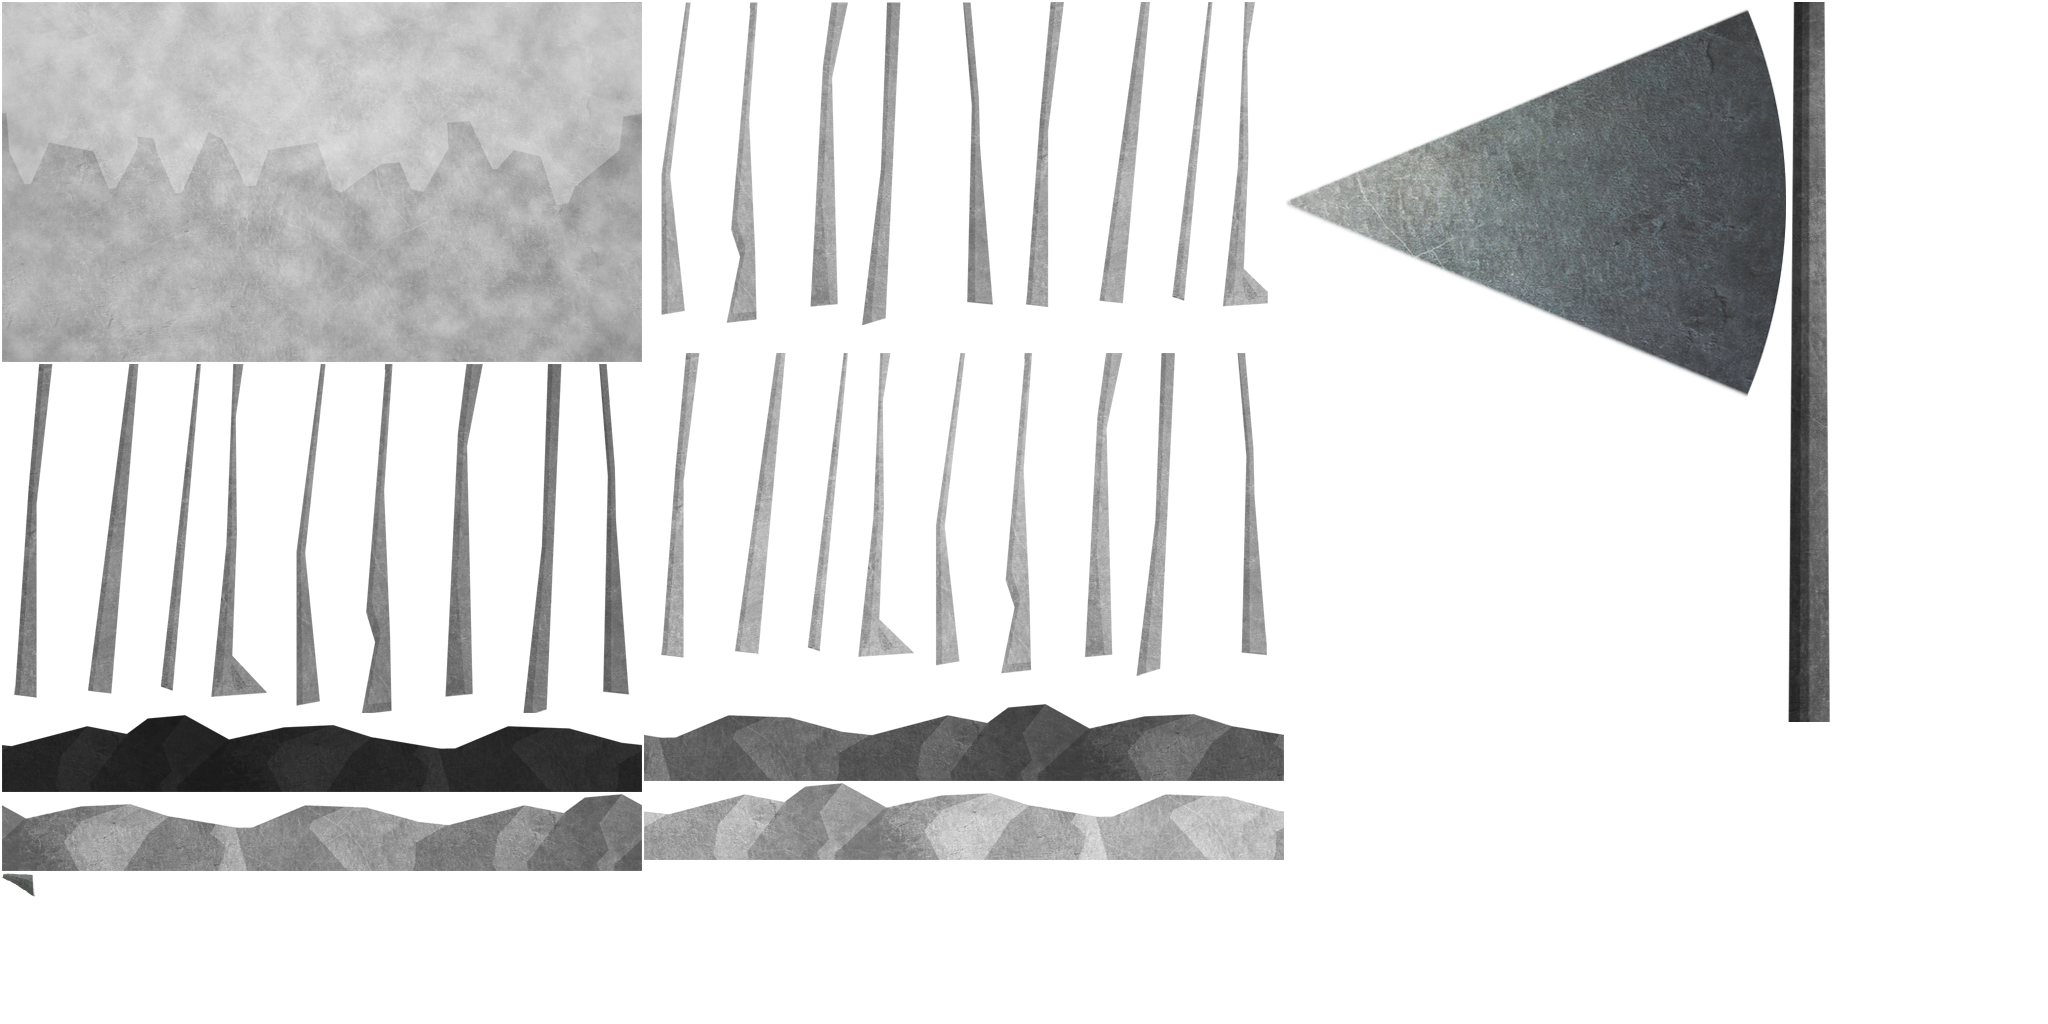
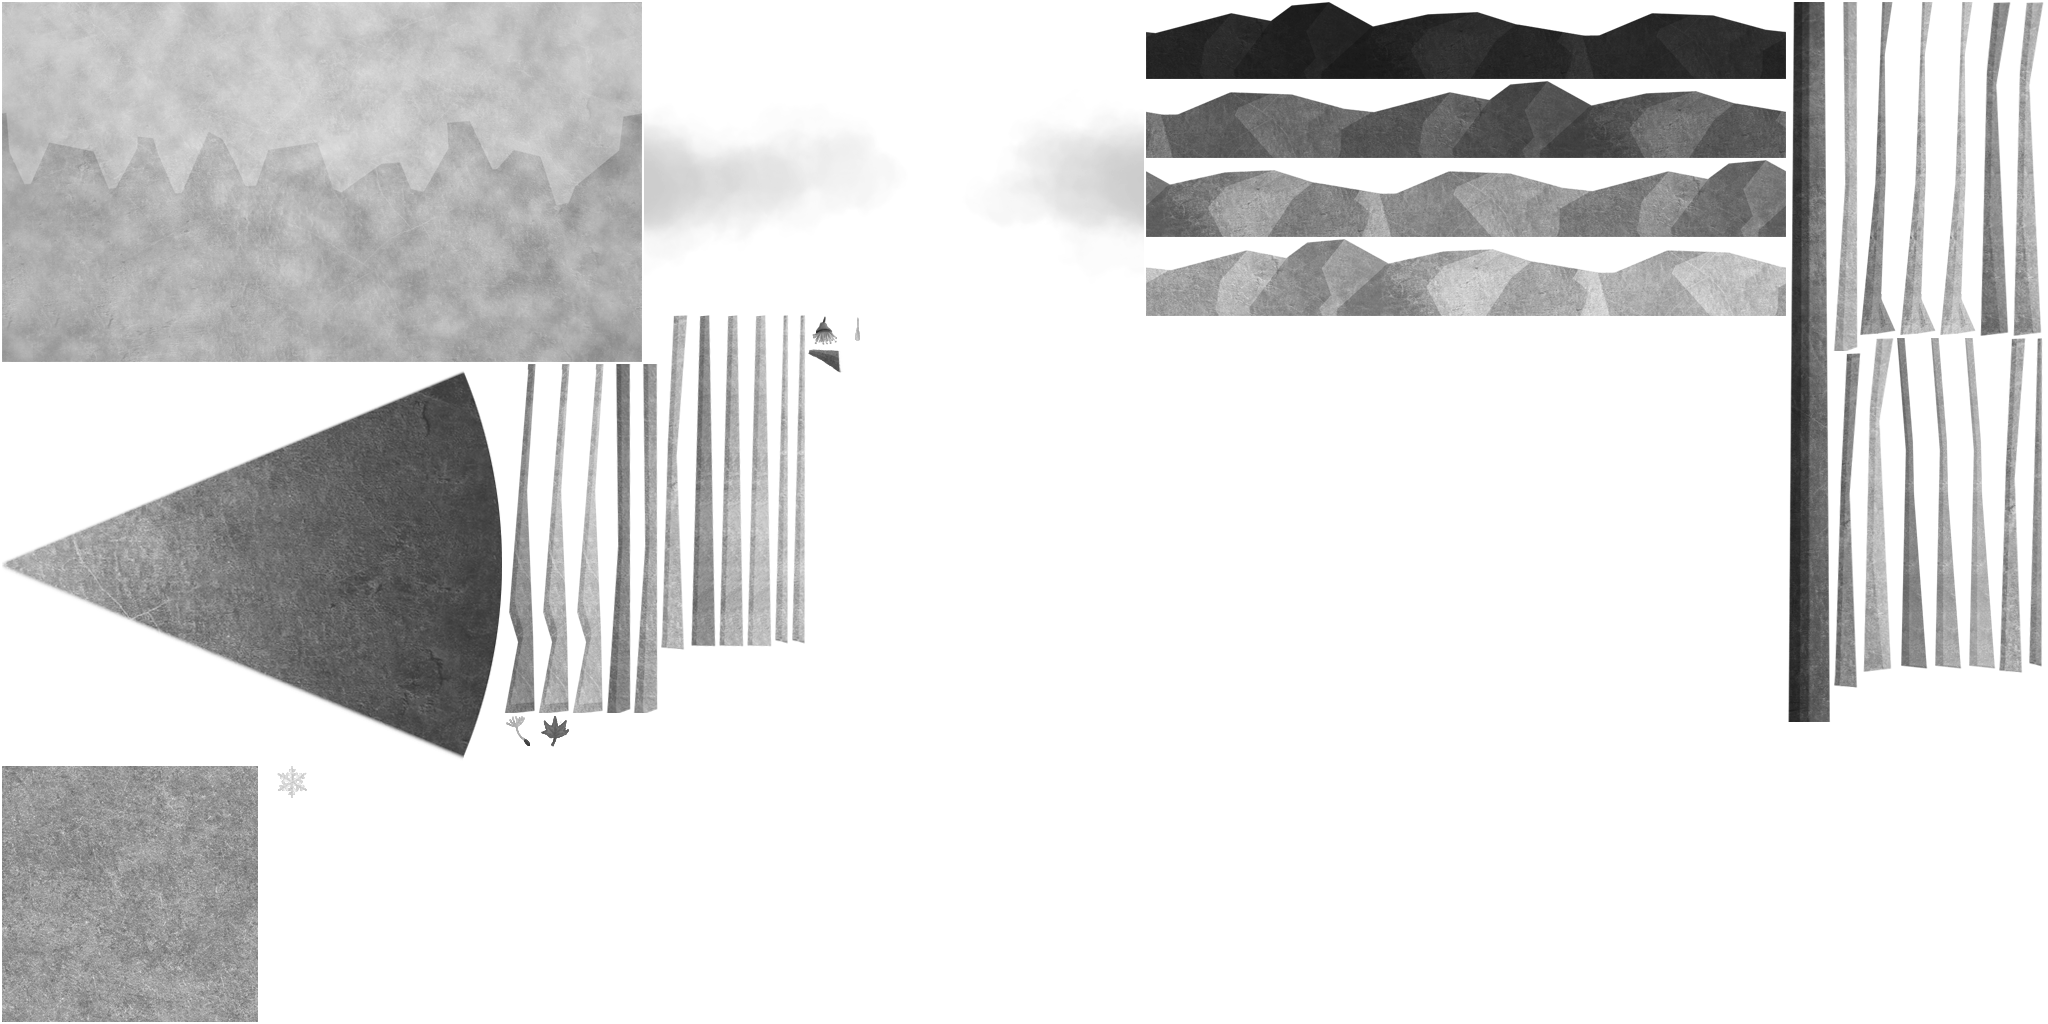
Corrected some issues on game
Now it works! :)

diff --git a/games/koala_seasons/screens/screen_title.c b/games/koala_seasons/screens/screen_title.c
@@ -858,8 +858,8 @@ void DrawTitleScreen(void)
     DrawTexturePro(atlas02, gameplay_background, (Rectangle){0, 0, gameplay_background.width*2, gameplay_background.height*2}, (Vector2){0, 0}, 0, color02);
 
     // Draw parallax
-    //DrawParallaxBack();
-    //DrawParallaxMiddle();
+    DrawParallaxBack();
+    DrawParallaxMiddle();
 
     for (int i = 0; i < MAX_particle; i++)
     {
@@ -984,8 +984,6 @@ void DrawTitleScreen(void)
     if (musicActive)DrawTexturePro(atlas01, title_speaker_on, (Rectangle){speakerButton.x, speakerButton.y, title_speaker_on.width, title_speaker_on.height}, (Vector2){0,0}, 0, WHITE);
     else DrawTexturePro(atlas01, title_speaker_off, (Rectangle){speakerButton.x, speakerButton.y, title_speaker_off.width, title_speaker_off.height}, (Vector2){0,0}, 0, WHITE);
     */
-    
-    DrawParallaxFront();
 }
 
 // Title Screen Unload logic
@@ -1003,10 +1001,7 @@ int FinishTitleScreen(void)
 static void DrawParallaxFront(void)
 {
     Rectangle ground01 = gameplay_back_ground01;
-    
-    DrawTexturePro(atlas02, gameplay_back_tree01_layer01, (Rectangle){0, 0, gameplay_back_tree01_layer01.width*2, gameplay_back_tree01_layer01.height*2}, (Vector2){0,0}, 0, WHITE);
 
-    /*
     //DrawTexturePro(atlas02, gameplay_back_tree01_layer03, (Rectangle){0, 21, gameplay_back_tree01_layer03.width*2, gameplay_back_tree01_layer03.height*2}, (Vector2){0,0}, 0, color02);
     DrawTexturePro(atlas02, gameplay_back_tree01_layer01, (Rectangle){(int)parallaxFrontOffset, 60, gameplay_back_tree01_layer01.width*2, gameplay_back_tree01_layer01.height*2}, (Vector2){0,0}, 0, color02);
     DrawTexturePro(atlas02, gameplay_back_tree02_layer01, (Rectangle){(int)parallaxFrontOffset + 140, 60, gameplay_back_tree02_layer01.width*2, gameplay_back_tree02_layer01.height*2}, (Vector2){0,0}, 0, color02);
@@ -1018,7 +1013,6 @@ static void DrawParallaxFront(void)
     DrawTexturePro(atlas02, gameplay_back_tree08_layer01, (Rectangle){(int)parallaxFrontOffset + 140*7, 60, gameplay_back_tree08_layer01.width*2, gameplay_back_tree08_layer01.height*2}, (Vector2){0,0}, 0, color02);
     DrawTexturePro(atlas02, gameplay_back_ground01, (Rectangle){0, 559, ground01.width*2, ground01.height*2}, (Vector2){0,0}, 0, color01);
     DrawTexturePro(atlas02, (Rectangle){ground01.x, ground01.y + ground01.height, ground01.width, -ground01.height}, (Rectangle){0, -33, ground01.width*2, ground01.height*2}, (Vector2){0,0}, 0, color01);
-    */
 }
 
 static void DrawParallaxMiddle(void)
